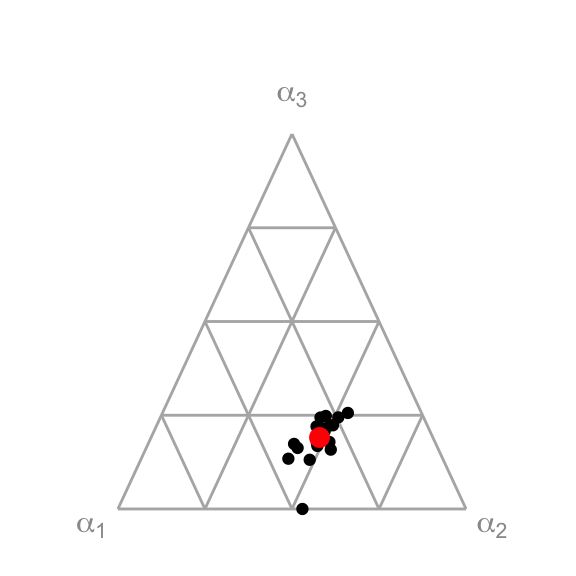
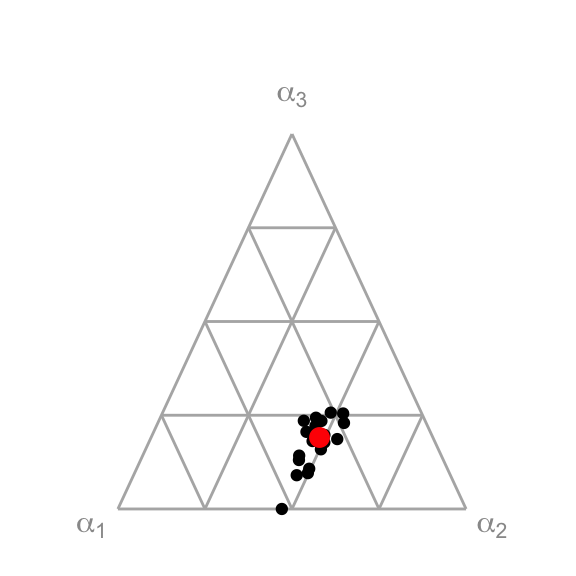
Better docs.

Changed region(s): [[0.4688, 0.6875, 0.625, 0.8438], [0.4688, 0.875, 0.5312, 0.9062]]

diff --git a/docs/articles/MacroGrowth.html b/docs/articles/MacroGrowth.html
@@ -403,11 +403,11 @@ cdfit
 <span class="co">#&gt;   lambda logscale scale alpha_1 alpha_2 alpha_3 method index</span>
 <span class="co">#&gt;    &lt;dbl&gt;    &lt;dbl&gt; &lt;dbl&gt;   &lt;dbl&gt;   &lt;dbl&gt;   &lt;dbl&gt; &lt;chr&gt;  &lt;int&gt;</span>
 <span class="co">#&gt; 1 0.0111 -0.00155 0.998   0.535   0.465       0 orig       1</span>
-<span class="co">#&gt; 2 0.0120  0.00810 1.01    0.500   0.500       0 wild       1</span>
-<span class="co">#&gt; 3 0.0117 -0.00549 0.995   0.519   0.481       0 wild       2</span>
-<span class="co">#&gt; 4 0.0120  0.00183 1.00    0.507   0.493       0 wild       3</span>
-<span class="co">#&gt; 5 0.0116  0.00347 1.00    0.513   0.487       0 wild       4</span>
-<span class="co">#&gt; 6 0.0112 -0.00698 0.993   0.535   0.465       0 wild       5</span></code></pre></div>
+<span class="co">#&gt; 2 0.0112 -0.00256 0.997   0.531   0.469       0 wild       1</span>
+<span class="co">#&gt; 3 0.0130  0.00474 1.00    0.474   0.526       0 wild       2</span>
+<span class="co">#&gt; 4 0.0102 -0.00574 0.994   0.568   0.432       0 wild       3</span>
+<span class="co">#&gt; 5 0.0101 -0.00123 0.999   0.560   0.440       0 wild       4</span>
+<span class="co">#&gt; 6 0.0116  0.00578 1.01    0.512   0.488       0 wild       5</span></code></pre></div>
 <p><code>models</code> is a list containing the model object for each resample fit.</p>
 <div class="sourceCode"><pre class="sourceCode r"><code class="sourceCode r"><span class="co"># Original fit</span>
 cdfits_rs<span class="op">$</span>models[[<span class="dv">1</span>]] <span class="op">%&gt;%</span><span class="st"> </span><span class="kw"><a href="../reference/naturalCoef.html">naturalCoef</a></span>()
@@ -415,45 +415,45 @@ cdfits_rs<span class="op">$</span>models[[<span class="dv">1</span>]] <span clas
 <span class="co">#&gt; 1 0.01112252 -0.001552367 0.9984488 0.535182 0.464818       0</span>
 <span class="co"># First resampled model</span>
 cdfits_rs<span class="op">$</span>models[[<span class="dv">2</span>]] <span class="op">%&gt;%</span><span class="st"> </span><span class="kw"><a href="../reference/naturalCoef.html">naturalCoef</a></span>()
-<span class="co">#&gt;       lambda    logscale    scale   alpha_1   alpha_2 alpha_3</span>
-<span class="co">#&gt; 1 0.01202094 0.008102246 1.008135 0.5004233 0.4995767       0</span>
+<span class="co">#&gt;       lambda     logscale     scale  alpha_1  alpha_2 alpha_3</span>
+<span class="co">#&gt; 1 0.01119053 -0.002561505 0.9974418 0.530637 0.469363       0</span>
 <span class="co"># Last resampled model</span>
 cdfits_rs<span class="op">$</span>models[[<span class="dv">6</span>]] <span class="op">%&gt;%</span><span class="st"> </span><span class="kw"><a href="../reference/naturalCoef.html">naturalCoef</a></span>()
-<span class="co">#&gt;       lambda     logscale     scale   alpha_1   alpha_2 alpha_3</span>
-<span class="co">#&gt; 1 0.01120289 -0.006980048 0.9930443 0.5354465 0.4645535       0</span></code></pre></div>
+<span class="co">#&gt;       lambda    logscale  scale   alpha_1   alpha_2 alpha_3</span>
+<span class="co">#&gt; 1 0.01162373 0.005783092 1.0058 0.5118226 0.4881774       0</span></code></pre></div>
 <p>The <code>resampledFits</code> function knows about models fitted with any of the <code>*Model</code> functions.</p>
 <div class="sourceCode"><pre class="sourceCode r"><code class="sourceCode r"><span class="kw"><a href="../reference/resampledFits.html">resampledFits</a></span>(<span class="dt">model =</span> sffit, <span class="dt">method =</span> <span class="st">"wild"</span>, <span class="dt">n =</span> <span class="dv">5</span>)[[<span class="st">"coeffs"</span>]]
 <span class="co">#&gt; # A tibble: 6 x 6</span>
 <span class="co">#&gt;   logscale scale lambda     m method index</span>
 <span class="co">#&gt;      &lt;dbl&gt; &lt;dbl&gt;  &lt;dbl&gt; &lt;dbl&gt; &lt;chr&gt;  &lt;int&gt;</span>
 <span class="co">#&gt; 1  -0.0714 0.931 0.0178 0.108 orig       1</span>
-<span class="co">#&gt; 2  -0.148  0.862 0.0350 0.221 wild       1</span>
-<span class="co">#&gt; 3  -0.158  0.854 0.0346 0.232 wild       2</span>
-<span class="co">#&gt; 4  -0.143  0.866 0.0349 0.223 wild       3</span>
-<span class="co">#&gt; 5  -0.120  0.887 0.0365 0.193 wild       4</span>
-<span class="co">#&gt; 6  -0.178  0.837 0.0332 0.257 wild       5</span>
+<span class="co">#&gt; 2  -0.161  0.851 0.0345 0.233 wild       1</span>
+<span class="co">#&gt; 3  -0.171  0.843 0.0355 0.225 wild       2</span>
+<span class="co">#&gt; 4  -0.128  0.880 0.0368 0.194 wild       3</span>
+<span class="co">#&gt; 5  -0.151  0.860 0.0356 0.218 wild       4</span>
+<span class="co">#&gt; 6  -0.220  0.803 0.0315 0.294 wild       5</span>
 <span class="kw"><a href="../reference/resampledFits.html">resampledFits</a></span>(<span class="dt">model =</span> cesfit, <span class="dt">method =</span> <span class="st">"wild"</span>, <span class="dt">n =</span> <span class="dv">5</span>)[[<span class="st">"coeffs"</span>]]
 <span class="co">#&gt; # A tibble: 6 x 15</span>
 <span class="co">#&gt;   scale logscale lambda delta delta_1 sigma_1 rho_1 sigma   rho alpha_1</span>
 <span class="co">#&gt;   &lt;dbl&gt;    &lt;dbl&gt;  &lt;dbl&gt; &lt;dbl&gt;   &lt;dbl&gt;   &lt;dbl&gt; &lt;dbl&gt; &lt;dbl&gt; &lt;dbl&gt;   &lt;dbl&gt;</span>
-<span class="co">#&gt; 1 0.979  -0.0213 0.0185     1   0.487   0.452 1.21     NA    NA   0.487</span>
-<span class="co">#&gt; 2 0.977  -0.0228 0.0209     1   0.504   0.321 2.12     NA    NA   0.504</span>
-<span class="co">#&gt; 3 0.974  -0.0264 0.0171     1   0.501   0.528 0.893    NA    NA   0.501</span>
-<span class="co">#&gt; 4 0.985  -0.0147 0.0179     1   0.477   0.492 1.03     NA    NA   0.477</span>
-<span class="co">#&gt; 5 0.977  -0.0228 0.0194     1   0.474   0.427 1.34     NA    NA   0.474</span>
-<span class="co">#&gt; 6 0.986  -0.0142 0.0178     1   0.480   0.5   1        NA    NA   0.480</span>
+<span class="co">#&gt; 1 0.979 -0.0213  0.0185     1   0.487   0.452 1.21     NA    NA   0.487</span>
+<span class="co">#&gt; 2 0.976 -0.0244  0.0181     1   0.531   0.416 1.40     NA    NA   0.531</span>
+<span class="co">#&gt; 3 0.996 -0.00383 0.0177     1   0.436   0.565 0.769    NA    NA   0.436</span>
+<span class="co">#&gt; 4 0.990 -0.00971 0.0178     1   0.452   0.526 0.900    NA    NA   0.452</span>
+<span class="co">#&gt; 5 0.970 -0.0306  0.0198     1   0.484   0.396 1.52     NA    NA   0.484</span>
+<span class="co">#&gt; 6 0.981 -0.0189  0.0166     1   0.510   0.522 0.915    NA    NA   0.510</span>
 <span class="co">#&gt; # ... with 5 more variables: alpha_2 &lt;dbl&gt;, alpha_3 &lt;dbl&gt;, sigma_12 &lt;dbl&gt;,</span>
 <span class="co">#&gt; #   method &lt;chr&gt;, index &lt;int&gt;</span>
 <span class="kw"><a href="../reference/resampledFits.html">resampledFits</a></span>(<span class="dt">model =</span> linexfit, <span class="dt">method =</span> <span class="st">"wild"</span>, <span class="dt">n =</span> <span class="dv">5</span>)[[<span class="st">"coeffs"</span>]]
 <span class="co">#&gt; # A tibble: 6 x 7</span>
 <span class="co">#&gt;   logscale scale   a_0   a_1   c_t method index</span>
 <span class="co">#&gt;      &lt;dbl&gt; &lt;dbl&gt; &lt;dbl&gt; &lt;dbl&gt; &lt;dbl&gt; &lt;chr&gt;  &lt;int&gt;</span>
-<span class="co">#&gt; 1  -0.0606 0.941  1.12  2.12  1.89 orig       1</span>
-<span class="co">#&gt; 2  -0.0676 0.935  1.16  2.19  1.90 wild       1</span>
-<span class="co">#&gt; 3  -0.0931 0.911  1.18  2.23  1.89 wild       2</span>
-<span class="co">#&gt; 4  -0.0775 0.925  1.12  2.05  1.82 wild       3</span>
-<span class="co">#&gt; 5  -0.0642 0.938  1.15  2.21  1.92 wild       4</span>
-<span class="co">#&gt; 6  -0.0907 0.913  1.13  2.06  1.83 wild       5</span></code></pre></div>
+<span class="co">#&gt; 1 -0.0606  0.941  1.12  2.12  1.89 orig       1</span>
+<span class="co">#&gt; 2 -0.0613  0.941  1.16  2.29  1.98 wild       1</span>
+<span class="co">#&gt; 3 -0.0714  0.931  1.06  1.86  1.76 wild       2</span>
+<span class="co">#&gt; 4 -0.0313  0.969  1.13  2.27  2.01 wild       3</span>
+<span class="co">#&gt; 5 -0.0554  0.946  1.16  2.23  1.93 wild       4</span>
+<span class="co">#&gt; 6 -0.00776 0.992  1.14  2.38  2.08 wild       5</span></code></pre></div>
 </div>
 <div id="plotting-results" class="section level2">
 <h2 class="hasAnchor">

diff --git a/docs/reference/formula.utils.html b/docs/reference/formula.utils.html
@@ -162,13 +162,13 @@ the formula.</p></td>
 
     <h2 class="hasAnchor" id="examples"><a class="anchor" href="#examples"></a>Examples</h2>
     <pre class="examples"><div class='input'><span class='no'>a</span> <span class='kw'>&lt;-</span> <span class='fu'>build_formula</span>(<span class='fu'>c</span>(<span class='st'>"a"</span>, <span class='st'>"b"</span>), <span class='fu'>c</span>(<span class='st'>"x"</span>, <span class='st'>"y"</span>, <span class='st'>"log(x*y)"</span>)); <span class='no'>a</span></div><div class='output co'>#&gt; a + b ~ x + y + log(x * y)
-#&gt; &lt;environment: 0x7f98d6d4c580&gt;</div><div class='input'><span class='no'>b</span> <span class='kw'>&lt;-</span> <span class='fu'>build_formula</span>(<span class='st'>"response"</span>, <span class='fu'>list</span>(<span class='st'>"x"</span>, <span class='st'>"y"</span>, <span class='kw'>NULL</span>, <span class='st'>"log(x)"</span>), <span class='kw'>op</span><span class='kw'>=</span><span class='st'>"*"</span>); <span class='no'>b</span></div><div class='output co'>#&gt; response ~ x * y * log(x)
-#&gt; &lt;environment: 0x7f98d6d4c580&gt;</div><div class='input'><span class='no'>f</span> <span class='kw'>&lt;-</span> <span class='fu'>build_formula</span>( <span class='st'>"iGDP"</span>, <span class='fu'>list</span>(<span class='st'>"iK"</span>, <span class='st'>"iL"</span>, <span class='st'>"iQp"</span>, <span class='st'>"iYear"</span>)); <span class='no'>f</span></div><div class='output co'>#&gt; iGDP ~ iK + iL + iQp + iYear
-#&gt; &lt;environment: 0x7f98d6d4c580&gt;</div><div class='input'><span class='no'>g</span> <span class='kw'>&lt;-</span> <span class='fu'>build_formula</span>( <span class='st'>"iGDP"</span>, <span class='fu'>c</span>(<span class='st'>"iK"</span>, <span class='st'>"iL"</span>, <span class='st'>"iQp"</span>, <span class='st'>"iYear"</span>)); <span class='no'>g</span></div><div class='output co'>#&gt; iGDP ~ iK + iL + iQp + iYear
-#&gt; &lt;environment: 0x7f98d6d4c580&gt;</div><div class='input'><span class='fu'>identical</span>(<span class='no'>f</span>,<span class='no'>g</span>)</div><div class='output co'>#&gt; [1] TRUE</div><div class='input'><span class='fu'>summands</span>(<span class='no'>a</span>)</div><div class='output co'>#&gt; [1] "x"          "y"          "log(x * y)"</div><div class='input'><span class='fu'>summands</span>(<span class='no'>a</span>, <span class='kw'>right</span><span class='kw'>=</span><span class='fl'>FALSE</span>)</div><div class='output co'>#&gt; [1] "a" "b"</div><div class='input'><span class='fu'>summands</span>(<span class='no'>b</span>, <span class='kw'>op</span><span class='kw'>=</span><span class='st'>"*"</span>)</div><div class='output co'>#&gt; [1] "x"      "y"      "log(x)"</div><div class='input'><span class='fu'>keep_summands</span>(<span class='no'>f</span>, <span class='fl'>3</span>)</div><div class='output co'>#&gt; iGDP ~ iQp
-#&gt; &lt;environment: 0x7f98d6d4c580&gt;</div><div class='input'><span class='fu'>keep_summands</span>(<span class='no'>f</span>, -<span class='fl'>3</span>)</div><div class='output co'>#&gt; iGDP ~ iK + iL + iYear
-#&gt; &lt;environment: 0x7f98d6d4c580&gt;</div><div class='input'><span class='fu'>keep_summands</span>(<span class='no'>f</span>, <span class='fl'>2</span>:<span class='fl'>4</span>)</div><div class='output co'>#&gt; iGDP ~ iL + iQp + iYear
-#&gt; &lt;environment: 0x7f98d6d4c580&gt;</div><div class='input'><span class='no'>h</span> <span class='kw'>&lt;-</span> <span class='fu'>replace_summand</span>( <span class='no'>f</span>, <span class='fl'>3</span>, <span class='fu'>paste</span>(<span class='fu'>summands</span>(<span class='no'>f</span>, <span class='fl'>3</span>), <span class='fu'>lhs</span>(<span class='no'>f</span>), <span class='kw'>sep</span><span class='kw'>=</span><span class='st'>"/"</span>)); <span class='no'>h</span></div><div class='output co'>#&gt; <span class='error'>Error in lhs(f): could not find function "lhs"</span></div><div class='output co'>#&gt; <span class='error'>Error in eval(expr, envir, enclos): object 'h' not found</span></div></pre>
+#&gt; &lt;environment: 0x7fb35127ca70&gt;</div><div class='input'><span class='no'>b</span> <span class='kw'>&lt;-</span> <span class='fu'>build_formula</span>(<span class='st'>"response"</span>, <span class='fu'>list</span>(<span class='st'>"x"</span>, <span class='st'>"y"</span>, <span class='kw'>NULL</span>, <span class='st'>"log(x)"</span>), <span class='kw'>op</span><span class='kw'>=</span><span class='st'>"*"</span>); <span class='no'>b</span></div><div class='output co'>#&gt; response ~ x * y * log(x)
+#&gt; &lt;environment: 0x7fb35127ca70&gt;</div><div class='input'><span class='no'>f</span> <span class='kw'>&lt;-</span> <span class='fu'>build_formula</span>( <span class='st'>"iGDP"</span>, <span class='fu'>list</span>(<span class='st'>"iK"</span>, <span class='st'>"iL"</span>, <span class='st'>"iQp"</span>, <span class='st'>"iYear"</span>)); <span class='no'>f</span></div><div class='output co'>#&gt; iGDP ~ iK + iL + iQp + iYear
+#&gt; &lt;environment: 0x7fb35127ca70&gt;</div><div class='input'><span class='no'>g</span> <span class='kw'>&lt;-</span> <span class='fu'>build_formula</span>( <span class='st'>"iGDP"</span>, <span class='fu'>c</span>(<span class='st'>"iK"</span>, <span class='st'>"iL"</span>, <span class='st'>"iQp"</span>, <span class='st'>"iYear"</span>)); <span class='no'>g</span></div><div class='output co'>#&gt; iGDP ~ iK + iL + iQp + iYear
+#&gt; &lt;environment: 0x7fb35127ca70&gt;</div><div class='input'><span class='fu'>identical</span>(<span class='no'>f</span>,<span class='no'>g</span>)</div><div class='output co'>#&gt; [1] TRUE</div><div class='input'><span class='fu'>summands</span>(<span class='no'>a</span>)</div><div class='output co'>#&gt; [1] "x"          "y"          "log(x * y)"</div><div class='input'><span class='fu'>summands</span>(<span class='no'>a</span>, <span class='kw'>right</span><span class='kw'>=</span><span class='fl'>FALSE</span>)</div><div class='output co'>#&gt; [1] "a" "b"</div><div class='input'><span class='fu'>summands</span>(<span class='no'>b</span>, <span class='kw'>op</span><span class='kw'>=</span><span class='st'>"*"</span>)</div><div class='output co'>#&gt; [1] "x"      "y"      "log(x)"</div><div class='input'><span class='fu'>keep_summands</span>(<span class='no'>f</span>, <span class='fl'>3</span>)</div><div class='output co'>#&gt; iGDP ~ iQp
+#&gt; &lt;environment: 0x7fb35127ca70&gt;</div><div class='input'><span class='fu'>keep_summands</span>(<span class='no'>f</span>, -<span class='fl'>3</span>)</div><div class='output co'>#&gt; iGDP ~ iK + iL + iYear
+#&gt; &lt;environment: 0x7fb35127ca70&gt;</div><div class='input'><span class='fu'>keep_summands</span>(<span class='no'>f</span>, <span class='fl'>2</span>:<span class='fl'>4</span>)</div><div class='output co'>#&gt; iGDP ~ iL + iQp + iYear
+#&gt; &lt;environment: 0x7fb35127ca70&gt;</div><div class='input'><span class='no'>h</span> <span class='kw'>&lt;-</span> <span class='fu'>replace_summand</span>( <span class='no'>f</span>, <span class='fl'>3</span>, <span class='fu'>paste</span>(<span class='fu'>summands</span>(<span class='no'>f</span>, <span class='fl'>3</span>), <span class='fu'>lhs</span>(<span class='no'>f</span>), <span class='kw'>sep</span><span class='kw'>=</span><span class='st'>"/"</span>)); <span class='no'>h</span></div><div class='output co'>#&gt; <span class='error'>Error in lhs(f): could not find function "lhs"</span></div><div class='output co'>#&gt; <span class='error'>Error in eval(expr, envir, enclos): object 'h' not found</span></div></pre>
   </div>
   <div class="col-md-3 hidden-xs hidden-sm" id="sidebar">
     <h2>Contents</h2>

diff --git a/docs/index.html b/docs/index.html
@@ -77,7 +77,7 @@
 <div id="macrogrowth" class="section level1">
 <div class="page-header"><h1 class="hasAnchor">
 <a href="#macrogrowth" class="anchor"></a>MacroGrowth</h1></div>
-<p>The <code>R</code> package <code>MacroGrowth</code> provides sophisticated tools for fitting macroeconomic growth models to data. <code>MacroGrowth</code> has several desirable features for economic modelers:</p>
+<p>The <code>R</code> package <code>MacroGrowth</code> provides sophisticated tools for fitting macroeconomic growth models to data. <code>MacroGrowth</code> has several desirable features for macroeconomic modelers:</p>
 <ul>
 <li>Functions that fit several different macroeconomic growth models.</li>
 <li>Functions fit along boundaries of the economically-meaningful region, thereby ensuring that the best possible fit is found.</li>
